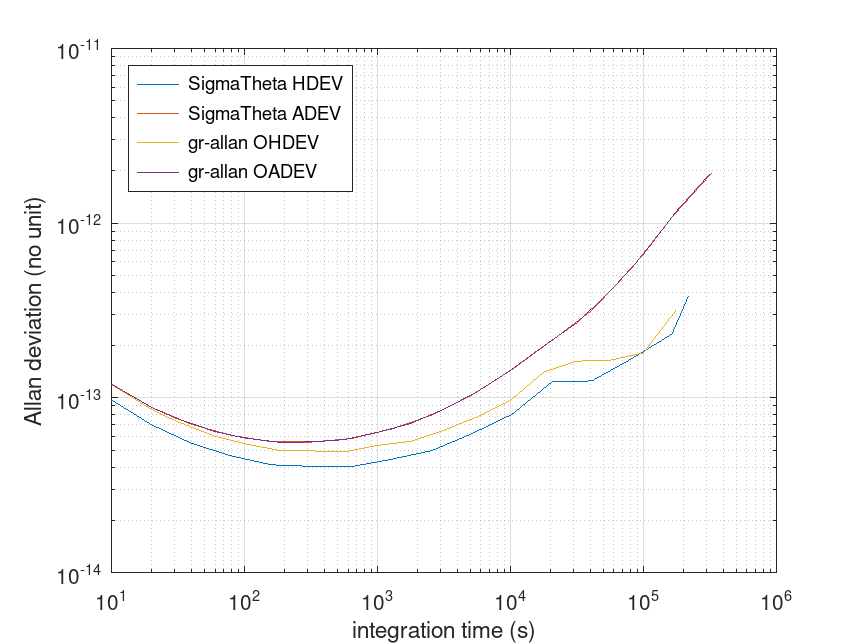
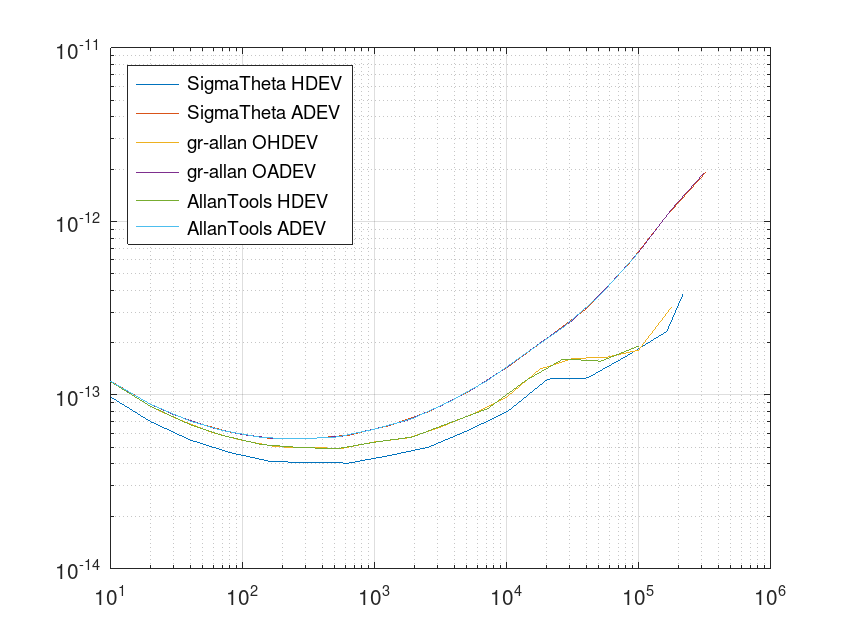
validation between SigmaTheta and AllanTools

diff --git a/examples/validate.py b/examples/validate.py
@@ -1,0 +1,10 @@
+import allantools
+import numpy as np
+y=np.loadtxt("noisetest.ykt", encoding="latin1",comments='%')
+t = np.logspace(0, 4, 15)  # tau values from 1 to 10000
+(t2, ad, ade, adn) = allantools.ohdev(y[:,1], rate=1, data_type="freq", taus=t) # overlapping HDEV
+print(t2)
+print(ad)
+(t2, ad, ade, adn) = allantools.oadev(y[:,1], rate=1, data_type="freq", taus=t) # overlapping ADEV
+print(t2)
+print(ad)

diff --git a/examples/README.md b/examples/README.md
@@ -108,6 +108,46 @@ OADEV:
 3.1623e+04 1.91546297e-12
 ```
 
+Using the ``validate.py`` script:
+```bash
+OHDEV:
+1.000e+00 1.19035819e-13
+2.000e+00 8.59774897e-14
+4.000e+00 6.72949424e-14
+7.000e+00 5.84305586e-14
+1.400e+01 5.16412911e-14
+2.700e+01 4.96994319e-14
+5.200e+01 4.89178009e-14
+1.000e+02 5.33899630e-14
+1.930e+02 5.71030681e-14
+3.730e+02 6.91222740e-14
+7.200e+02 8.33167277e-14
+1.389e+03 1.20661183e-13
+2.683e+03 1.60942443e-13
+5.179e+03 1.56397675e-13
+1.000e+04 1.91181420e-13
+```
+
+and again using the ``validate.py`` script:
+```bash
+OADEV:
+1.000e+00 1.19773265e-13
+2.000e+00 8.82901716e-14
+4.000e+00 7.05986858e-14
+7.000e+00 6.23564106e-14
+1.400e+01 5.66960536e-14 
+2.700e+01 5.57033864e-14 
+5.200e+01 5.71895939e-14 
+1.000e+02 6.34256883e-14
+1.930e+02 7.29376626e-14 
+3.730e+02 9.17167941e-14 
+7.200e+02 1.21214237e-13 
+1.389e+03 1.72885316e-13
+2.683e+03 2.44714087e-13 
+5.179e+03 3.79048370e-13 
+1.000e+04 6.60268988e-13
+```
+
 Comparison of SigmaTheta with this implementation. BE CAREFUL to set the dataset as *frequency*
 (and not the default behaviour of phase)
 
